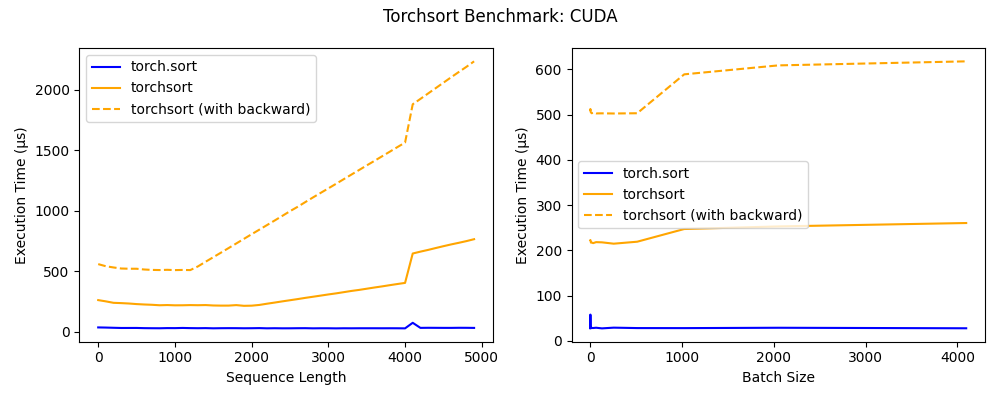
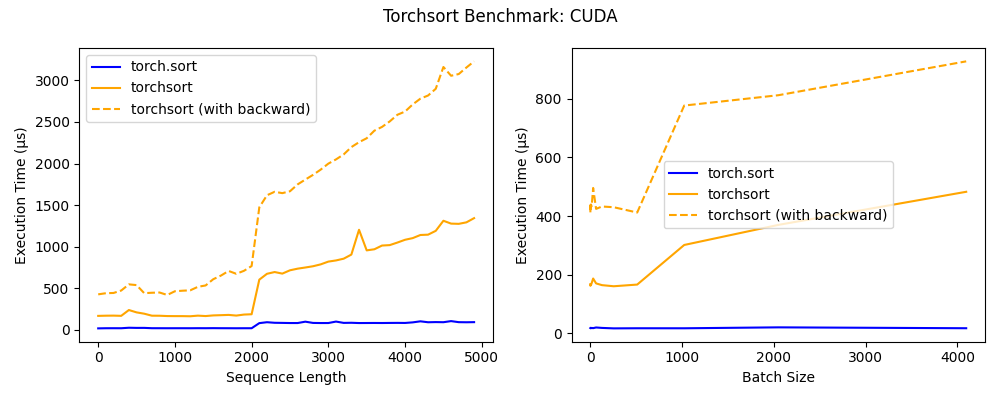
Cleaned repo for PR

diff --git a/extra/benchmark.py b/extra/benchmark.py
@@ -7,12 +7,12 @@ import torch
 
 import torchsort
 
-# try:
-#     import fast_soft_sort.pytorch_ops as fss
-# except ImportError:
-#     print("install fast_soft_sort:")
-#     print("pip install git+https://github.com/google-research/fast-soft-sort")
-#     sys.exit()
+try:
+    import fast_soft_sort.pytorch_ops as fss
+except ImportError:
+    print("install fast_soft_sort:")
+    print("pip install git+https://github.com/google-research/fast-soft-sort")
+    sys.exit()
 
 
 N = list(range(1, 5_000, 100))
@@ -47,14 +47,14 @@ def batch_size(ax):
         x = torch.randn(b, 100)
         data["torch.sort"].append(time(lambda: torch.sort(x)))
         data["torchsort"].append(time(lambda: torchsort.soft_sort(x)))
-        # data["fast_soft_sort"].append(time(lambda: fss.soft_sort(x)))
+        data["fast_soft_sort"].append(time(lambda: fss.soft_sort(x)))
         x = torch.randn(b, 100, requires_grad=True)
         data["torchsort (with backward)"].append(
             time(lambda: backward(torchsort.soft_sort, x))
         )
-        # data["fast_soft_sort (with backward)"].append(
-        #     time(lambda: backward(fss.soft_sort, x))
-        # )
+        data["fast_soft_sort (with backward)"].append(
+            time(lambda: backward(fss.soft_sort, x))
+        )
 
     for label in data.keys():
         ax.plot(B, data[label], label=label, **style(label))
@@ -70,14 +70,14 @@ def sequence_length(ax):
         x = torch.randn(1, n)
         data["torch.sort"].append(time(lambda: torch.sort(x)))
         data["torchsort"].append(time(lambda: torchsort.soft_sort(x)))
-        # data["fast_soft_sort"].append(time(lambda: fss.soft_sort(x)))
+        data["fast_soft_sort"].append(time(lambda: fss.soft_sort(x)))
         x = torch.randn(1, n, requires_grad=True)
         data["torchsort (with backward)"].append(
             time(lambda: backward(torchsort.soft_sort, x))
         )
-        # data["fast_soft_sort (with backward)"].append(
-        #     time(lambda: backward(fss.soft_sort, x))
-        # )
+        data["fast_soft_sort (with backward)"].append(
+            time(lambda: backward(fss.soft_sort, x))
+        )
 
     for label in data.keys():
         ax.plot(N, data[label], label=label, **style(label))
@@ -123,16 +123,16 @@ def sequence_length_cuda(ax):
 
 if __name__ == "__main__":
     # jit/warmup
-    # x = torch.randn(1, 10, requires_grad=True)
-    # backward(torchsort.soft_sort, x)
-    # backward(fss.soft_sort, x)
+    x = torch.randn(1, 10, requires_grad=True)
+    backward(torchsort.soft_sort, x)
+    backward(fss.soft_sort, x)
 
-    # fig, (ax1, ax2) = plt.subplots(figsize=(10, 4), ncols=2)
-    # sequence_length(ax1)
-    # batch_size(ax2)
-    # fig.suptitle("Torchsort Benchmark: CPU")
-    # fig.tight_layout()
-    # plt.savefig("extra/benchmark.png")
+    fig, (ax1, ax2) = plt.subplots(figsize=(10, 4), ncols=2)
+    sequence_length(ax1)
+    batch_size(ax2)
+    fig.suptitle("Torchsort Benchmark: CPU")
+    fig.tight_layout()
+    plt.savefig("extra/benchmark.png")
 
     if torch.cuda.is_available():
         # warmup
@@ -144,4 +144,4 @@ if __name__ == "__main__":
         batch_size_cuda(ax2)
         fig.suptitle("Torchsort Benchmark: CUDA")
         fig.tight_layout()
-        plt.savefig("extra/benchmark_cuda_nnp.png")
+        plt.savefig("extra/benchmark_cuda.png")

diff --git a/tests/test_ops_nnp.py b/tests/test_ops_nnp.py
@@ -2,9 +2,9 @@ from functools import partial
 
 import pytest
 import torch
-from fast_soft_sort import pytorch_ops as fss
+# from fast_soft_sort import pytorch_ops as fss
 
-from torchsort import soft_rank, soft_sort
+from torchsort import soft_rank, soft_sort, soft_rank_parallel, soft_sort_parallel
 
 EPS = 1e-5
 ATOL = 1e-3
@@ -12,18 +12,20 @@ RTOL = 1e-3
 BATCH_SIZE = 8
 SEQ_LEN = 10
 
+# REGULARIZATION = ["l2", "kl"]
 REGULARIZATION = ["l2", "kl"]
 REGULARIZATION_STRENGTH = [1e-1, 1e0, 1e1]
 
 # use CPU, and up to two CUDA devices
-DEVICES = [torch.device("cpu")] + (
-    [torch.device(f"cuda:{d}") for d in range(min(torch.cuda.device_count(), 2))]
-)
+# DEVICES = [torch.device("cpu")] + (
+#     [torch.device(f"cuda:{d}") for d in range(min(torch.cuda.device_count(), 2))]
+# )
+DEVICES = ([torch.device(f"cuda:{d}") for d in range(min(torch.cuda.device_count(), 2))])
 
 torch.manual_seed(0)
 
 
-@pytest.mark.parametrize("function", [soft_rank, soft_sort])
+@pytest.mark.parametrize("function", [soft_rank, soft_sort, soft_rank_parallel, soft_sort_parallel])
 @pytest.mark.parametrize("regularization", REGULARIZATION)
 @pytest.mark.parametrize("regularization_strength", REGULARIZATION_STRENGTH)
 @pytest.mark.parametrize("device", DEVICES)
@@ -41,7 +43,8 @@ def test_gradcheck(function, regularization, regularization_strength, device):
 
 @pytest.mark.parametrize(
     "funcs",
-    [(soft_rank, fss.soft_rank), (soft_sort, fss.soft_sort)],
+    [(soft_rank, soft_rank_parallel), (soft_sort, soft_sort_parallel)], 
+    # [(soft_rank, fss.soft_rank), (soft_sort, fss.soft_sort)],
 )
 @pytest.mark.parametrize("regularization", REGULARIZATION)
 @pytest.mark.parametrize("regularization_strength", REGULARIZATION_STRENGTH)
@@ -57,12 +60,12 @@ def test_vs_original(funcs, regularization, regularization_strength, device):
         "regularization_strength": regularization_strength,
     }
     assert torch.allclose(
-        funcs[0](x, **kwargs).cpu(),
-        funcs[1](x.cpu(), **kwargs),
+        funcs[0](x, **kwargs),
+        funcs[1](x, **kwargs),
     )
 
 
-@pytest.mark.parametrize("function", [soft_rank, soft_sort])
+@pytest.mark.parametrize("function", [soft_rank, soft_sort, soft_rank_parallel, soft_sort_parallel])
 @pytest.mark.parametrize("regularization", REGULARIZATION)
 @pytest.mark.parametrize("regularization_strength", REGULARIZATION_STRENGTH)
 @pytest.mark.parametrize("device", DEVICES)

diff --git a/extra/cifar10.py b/extra/cifar10.py
@@ -17,7 +17,7 @@ import torchsort
 NUM_CLASSES = 10
 
 
-def topk_loss(input, target, regularization="l2", regularization_strength=1.0):
+def topk_loss(input, target, regularization="kl", regularization_strength=1.0):
 
     # TODO: not sure if this is what they mean by logistic map
     # "On the other hand, for top-k classification, we find that applying a
@@ -112,7 +112,6 @@ def main(args):
         nn.ReLU(),
         nn.Linear(512, NUM_CLASSES),
     ).to(args.device)
-    model = torch.compile(model)
 
     loss_fn = (
         F.cross_entropy
@@ -174,8 +173,7 @@ def main(args):
     )
     np.save(f"{args.loss_fn}{regularization}_acc.npy", test_accs)
 
-plt.style.use("bmh")
-palette = plt.rcParams['axes.prop_cycle'].by_key()['color']
+
 def plot():
     def smooth(xs, factor=0.9):
         out = [xs[0]]
@@ -183,13 +181,13 @@ def plot():
             out.append(out[-1] * factor + x * (1 - factor))
         return out
 
-    # colors = ["tab:blue", "tab:orange"]
-    plt.figure(figsize=(8, 5))
+    colors = ["tab:blue", "tab:orange"]
+    plt.figure(figsize=(5, 3))
     for i, file in enumerate(Path("./").glob("*.npy")):
         print(file)
         test_accs = np.load(file)
-        plt.plot(test_accs, alpha=0.1, color=palette[i])
-        plt.plot(smooth(test_accs), color=palette[i], label=file.stem)
+        plt.plot(test_accs, alpha=0.1, color=colors[i])
+        plt.plot(smooth(test_accs), color=colors[i], label=file.stem)
 
     plt.ylim(0.78, 0.88)
     plt.xlabel("Epochs")
@@ -205,14 +203,13 @@ if __name__ == "__main__":
     parser.add_argument(
         "--loss_fn", choices=["cross_entropy", "topk"], default="cross_entropy"
     )
-    parser.add_argument("--regularization", default="l2")
+    parser.add_argument("--regularization", default="kl")
     parser.add_argument("--regularization_strength", type=float, default=1.0)
     parser.add_argument("--hidden_size", type=int, default=64)
     parser.add_argument("--epochs", type=int, default=600)
     parser.add_argument("--plot", action="store_true")
     args = parser.parse_args()
-    # args.device = torch.device("cuda" if torch.cuda.is_available() else "cpu")
-    args.device = torch.device("cuda")
+    args.device = torch.device("cuda" if torch.cuda.is_available() else "cpu")
     if args.plot:
         plot()
     else:

diff --git a/README.md b/README.md
@@ -144,6 +144,13 @@ The `torchsort` CUDA kernel performs quite well with sequence lengths under
 CUDA kernel can likely be further optimized to achieve performance closer to that of the
 built in `torch.sort`.
 
+## Parallel Implementation (Still under development)
+
+`torchsort` has support for `SoftSort_Parallel` and `SoftRank_Parallel` for both kinds of regularization. These functions support both sequence-level and batch-level parallelism. They are tested against theirs sequential counterparts given in [Unit Tests](tests/test_ops_nnp.py). Their wall-clock results are as follows. 
+
+![Parallel Benchmark L2](extra/benchmark_cuda_nnp_l2.png)
+
+![Parallel Benchmark KL](extra/benchmark_cuda_nnp_kl.png)
 
 ## Reference
 
